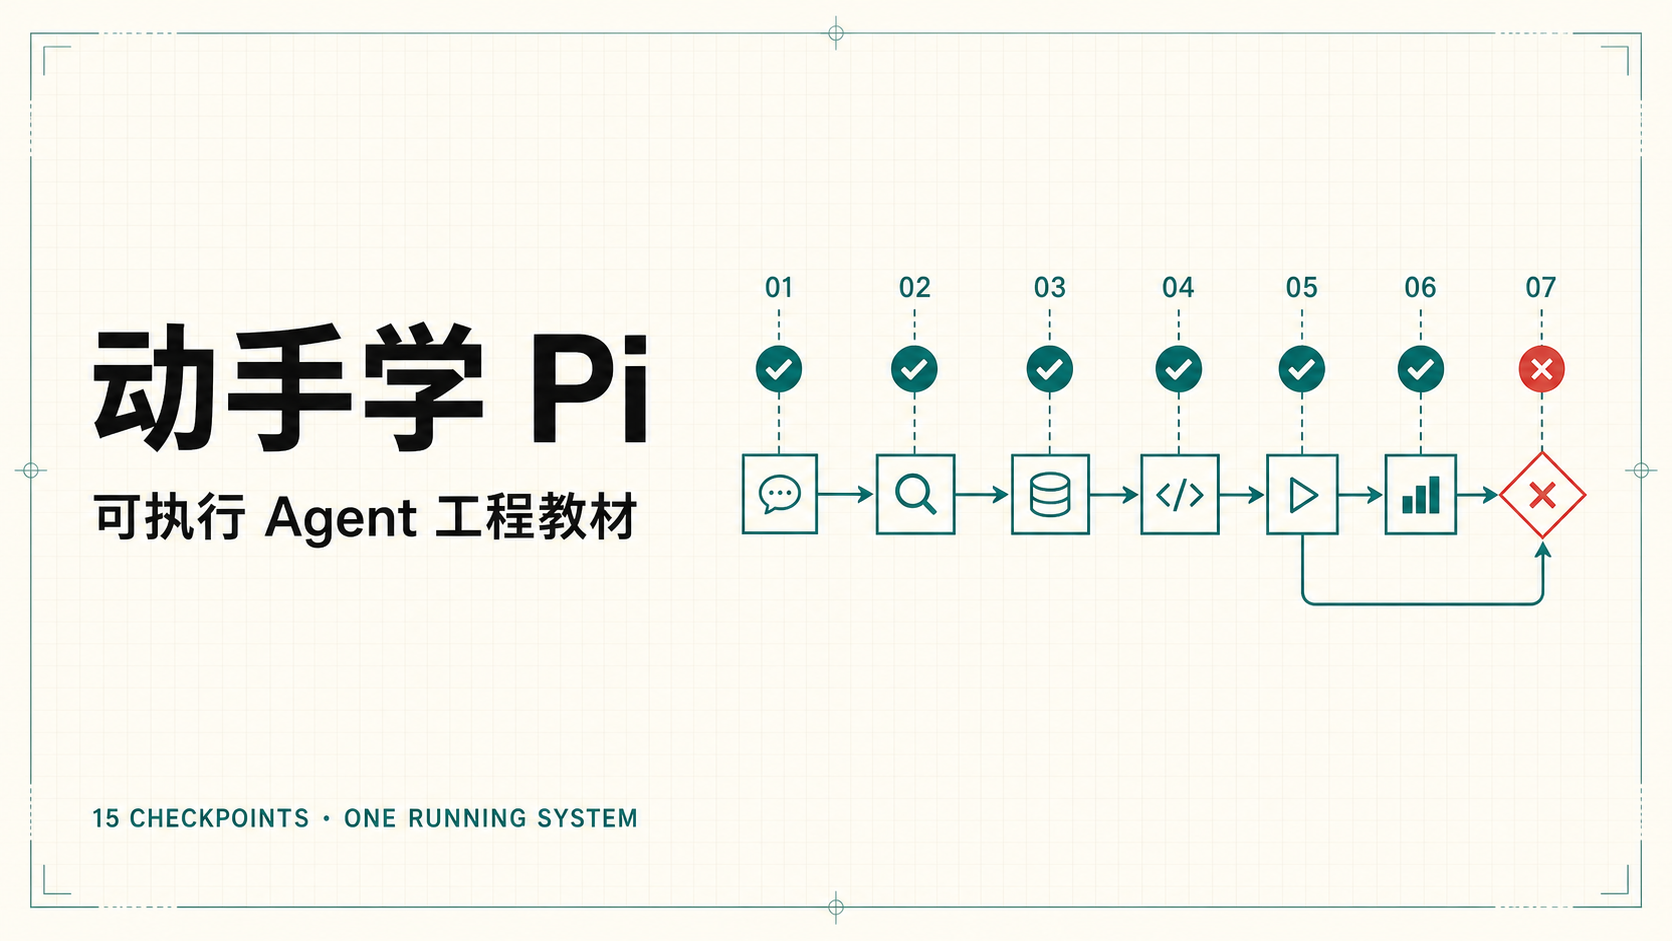
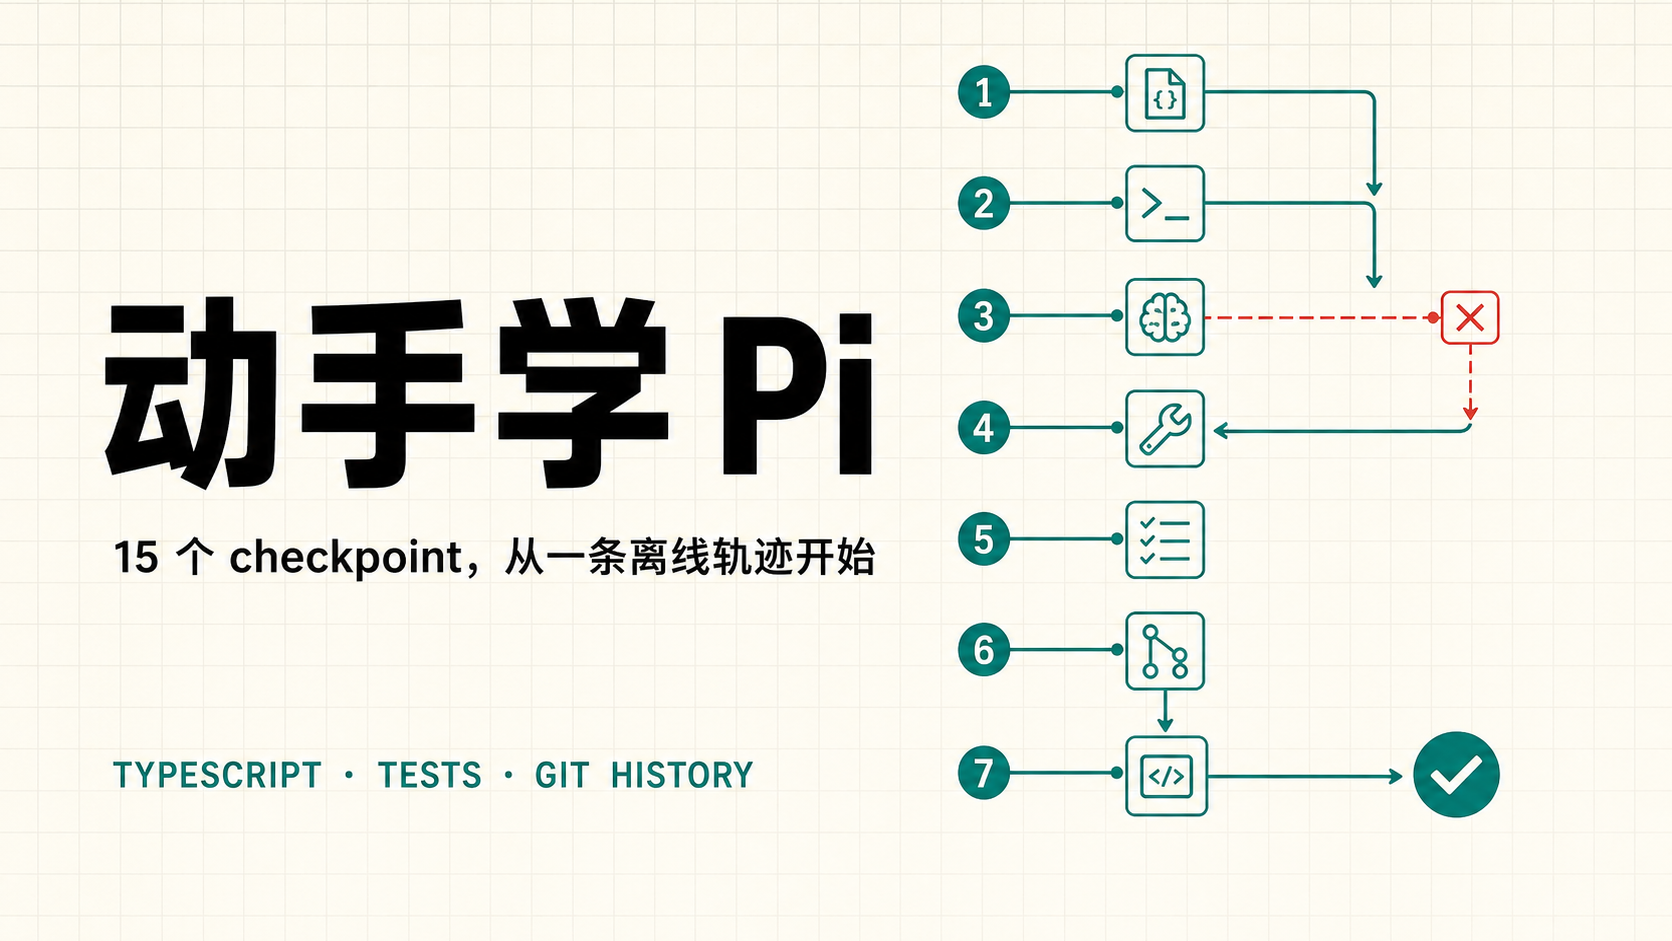
docs: make textbook positioning concrete

diff --git a/app/layout.tsx b/app/layout.tsx
@@ -25,11 +25,11 @@ export async function generateMetadata(): Promise<Metadata> {
 
   return {
     title: {
-      default: "动手学 Pi · 可执行工程教材",
+      default: "动手学 Pi",
       template: "%s · 动手学 Pi",
     },
     description:
-      "一套从第一性原理出发、用真实 TypeScript 和故障实验逐步实现 Pi 的中文工程教材。",
+      "沿 15 个 checkpoint，从一条离线轨迹开始，用 TypeScript 逐步实现 Pi。",
     applicationName: "动手学 Pi",
     authors: [{ name: "Pi Textbook Project" }],
     keywords: [
@@ -38,10 +38,10 @@ export async function generateMetadata(): Promise<Metadata> {
       "TypeScript",
       "LLM",
       "Tool Calling",
-      "工程教材",
+      "Agent 教程",
     ],
     openGraph: {
-      title: "动手学 Pi · 可执行 Agent 工程教材",
+      title: "动手学 Pi",
       description: "15 个 checkpoint，亲手实现一个可运行、可恢复、可扩展的 Pi。",
       type: "website",
       locale: "zh_CN",
@@ -50,13 +50,13 @@ export async function generateMetadata(): Promise<Metadata> {
           url: socialImage,
           width: 1672,
           height: 941,
-          alt: "动手学 Pi · 可执行 Agent 工程教材",
+          alt: "动手学 Pi",
         },
       ],
     },
     twitter: {
       card: "summary_large_image",
-      title: "动手学 Pi · 可执行 Agent 工程教材",
+      title: "动手学 Pi",
       description: "15 个 checkpoint，亲手实现一个可运行、可恢复、可扩展的 Pi。",
       images: [socialImage],
     },
@@ -84,7 +84,7 @@ export default function RootLayout({
             <div>
               <span className="brand-mark" aria-hidden="true">π</span>
               <p>
-                原创中文工程教材。学习方法受 Dive into Deep Learning 启发，
+                开源中文教材。学习方法受 Dive into Deep Learning 启发，
                 内容与代码独立编写。
               </p>
             </div>

diff --git a/app/page.tsx b/app/page.tsx
@@ -12,7 +12,6 @@ import { CourseMap } from "@/components/course-map";
 import { courseNav, courseParts } from "@/lib/course";
 
 export const metadata: Metadata = {
-  title: "动手学 Pi · 可执行 Agent 工程教材",
   description:
     "从消息协议和事件流开始，亲手实现工具、Agent Loop、会话树、上下文压缩与产品入口。",
 };
@@ -32,14 +31,14 @@ export default function Home() {
     <main>
       <section className="home-hero">
         <div className="hero-copy">
-          <p className="eyebrow">HANDS-ON PI · 中文工程教材</p>
+          <p className="eyebrow">15 CHECKPOINTS · TYPESCRIPT</p>
           <h1>
-            不只读懂 Agent，
+            从一条运行轨迹开始，
             <br />
-            <em>亲手把它造出来。</em>
+            <em>一步步实现 Pi。</em>
           </h1>
           <p className="hero-intro">
-            从一条完全离线的运行轨迹出发，逐章建立流式模型、工具协议、
+            课程从完全离线的运行轨迹出发，逐章建立流式模型、工具协议、
             Agent Loop、会话树、Context Compaction 与可扩展产品入口。
             每一步都有真实 TypeScript、故障实验和机器验收。
           </p>

diff --git a/components/site-header.tsx b/components/site-header.tsx
@@ -19,7 +19,7 @@ export function SiteHeader() {
         </span>
         <span>
           <strong>动手学 Pi</strong>
-          <small>可执行工程教材</small>
+          <small>从零实现 Pi</small>
         </span>
       </Link>
       <nav aria-label="全站导航">

diff --git a/README.md b/README.md
@@ -5,7 +5,7 @@
 <h1 align="center">动手学 Pi</h1>
 
 <p align="center">
-  一套可执行的中文 Agent 工程教材：不只读懂 Agent，亲手把它造出来。
+  沿 15 个 checkpoint，从一条离线轨迹开始，亲手实现一个 Pi-style coding agent。
 </p>
 
 <p align="center">
@@ -38,7 +38,7 @@ npm install
 npm run dev
 ```
 
-## 三个仓库如何配合
+## 教材与课程代码
 
 | 仓库 | 作用 |
 | --- | --- |

diff --git a/docs/plans/2026-07-17-pi-textbook.md b/docs/plans/2026-07-17-pi-textbook.md
@@ -11,7 +11,7 @@
 3. 正文、真实代码、测试和生成输出进入同一条构建验证链。
 4. 每章采用“预测 → 最小机制 → 实现 → 观察 → 故障注入 → 验收 → 迁移”。
 5. 明确区分课程简化、课程主动强化和当前上游 Pi 行为。
-6. 不修改相邻的 `curriculum/`、`practice/` 或 `pi/`。
+6. 不修改相邻的既有学习目录或 `pi/`。
 
 **技术架构：**
 
